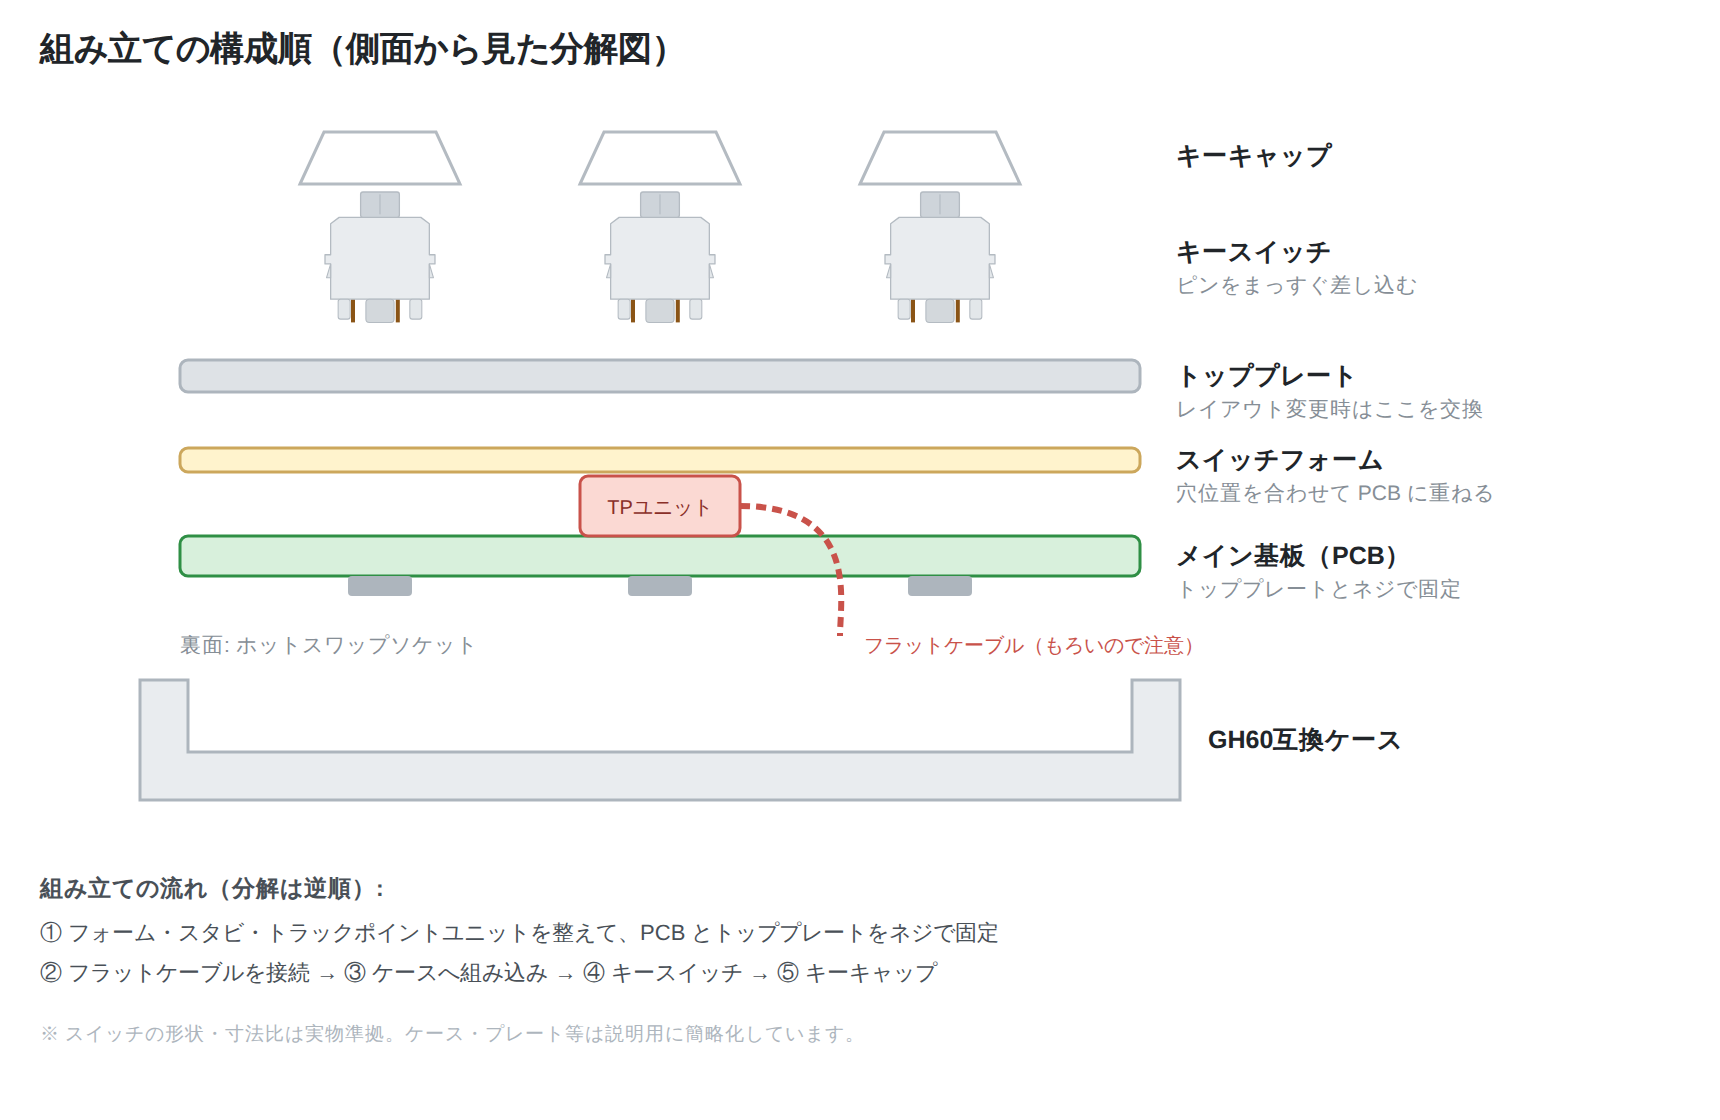
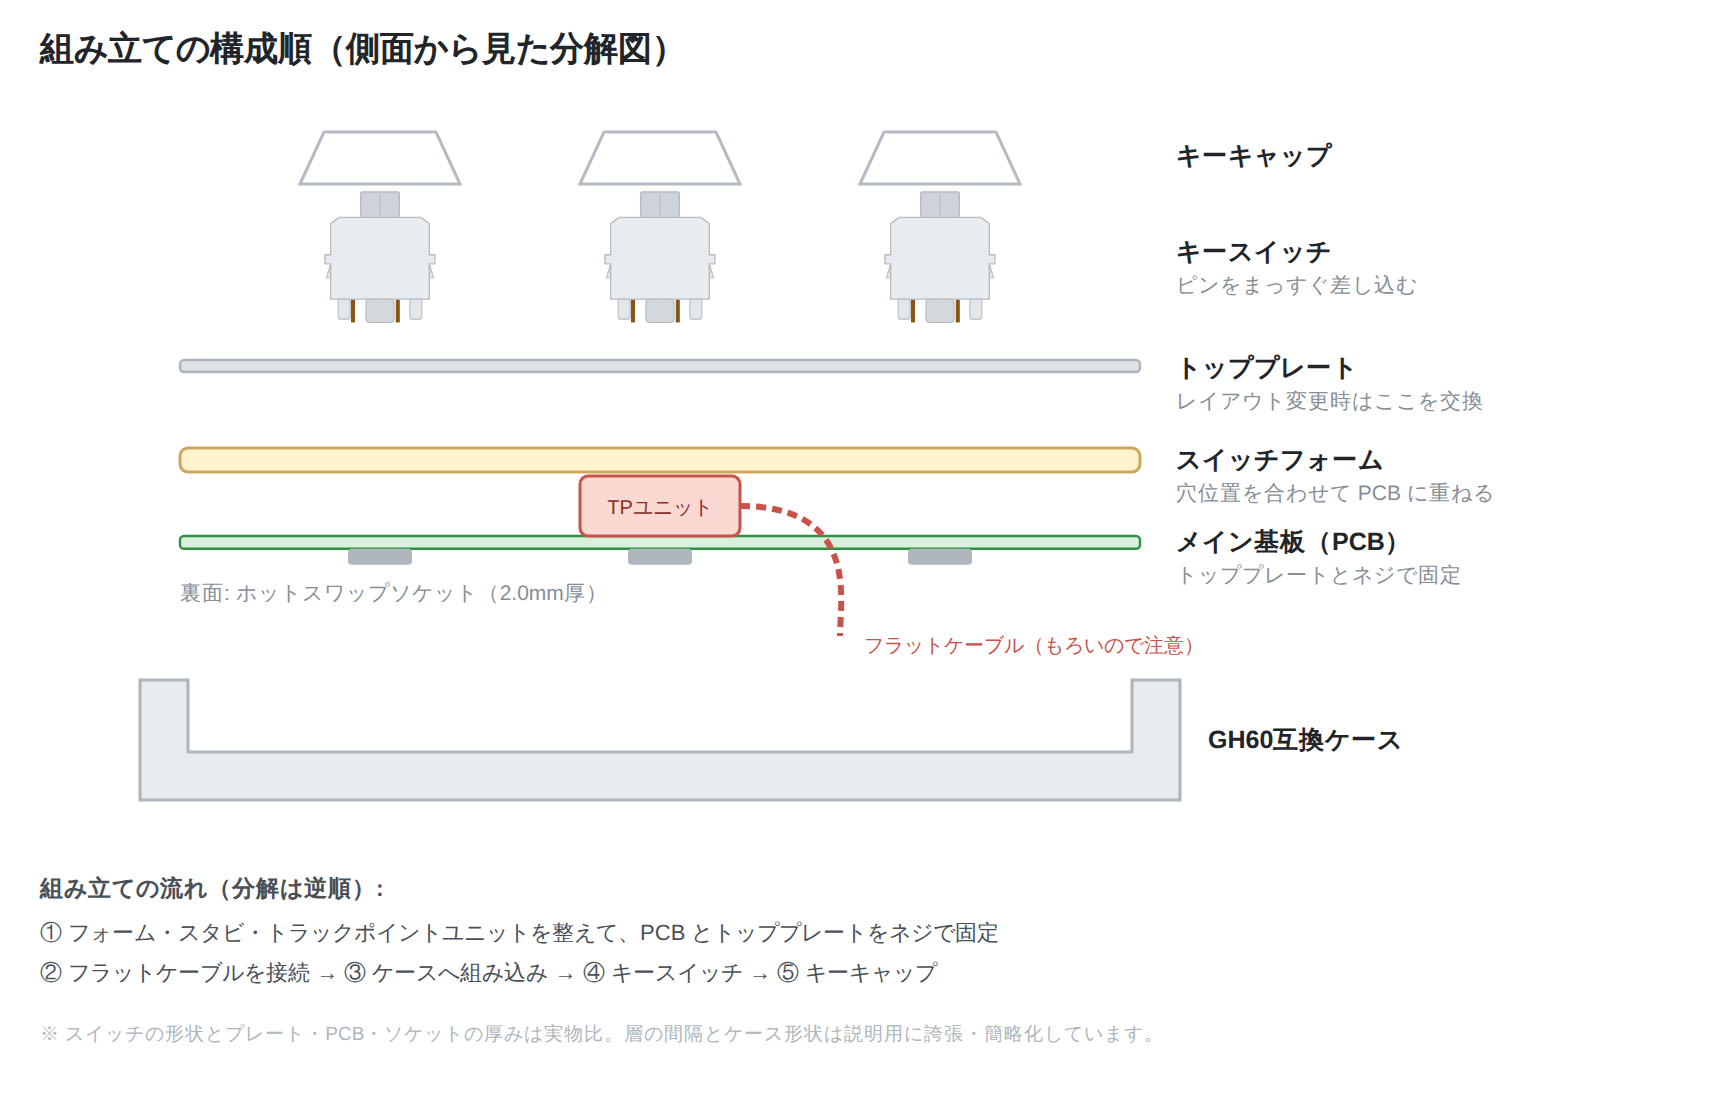
docs: 断面図・分解図の積層寸法を実物比に修正
スイッチ（8px=1mm）を基準に、図中の他要素の寸法を実測値へ合わせた。
- 断面図: プレート1.5mm / プレート下面〜PCB上面3.5mm / PCB1.6mm /
  ソケット2.0mm を実寸比で描画。3.5mm は寸法線、各層の厚みはラベルに併記。
- 分解図: プレート・PCB・ソケットの厚みの相対関係を実物比に修正
  （従来はソケットがプレートより薄く見えていた）。
- ビルドガイド 2.1 に積層寸法の表を追加。ハウジング4.8mm・ピン8.1mm と
  合わせ、ピンがPCBを貫通して裏面ソケットに届くことを明記。

Claude-Session: https://claude.ai/code/session_01KXeZwnrWZC9mufsK7vrEwo

diff --git a/docs/buildguide.md b/docs/buildguide.md
@@ -122,6 +122,17 @@ OLSK60 は **MX互換**のキースイッチに対応しています。スイッ
 
 > 各部の内訳・PCB フットプリントの座標・ステムの参考値は、[MX互換スイッチ 寸法リファレンス](reference/cherry-mx-switch-spec.md)にまとめています。
 
+OLSK60 側の積層寸法は次のとおりです（[差し込み方の断面図](#2-キースイッチの取り付け)と対応）。
+
+| 部位 | 寸法 |
+|---|---|
+| トッププレート厚 | 1.5 |
+| トッププレート下面〜PCB上面 | 3.5 |
+| PCB厚 | 1.6 |
+| ホットスワップソケット厚（PCB裏面） | 2.0 |
+
+スイッチのハウジングはプレート上面から 4.8mm 下まで、ピン先端は 8.1mm 下まで伸びるため、ピンは PCB を貫通して裏面のソケットに届きます。
+
 ---
 
 ## 3. キーキャップの取り付け
